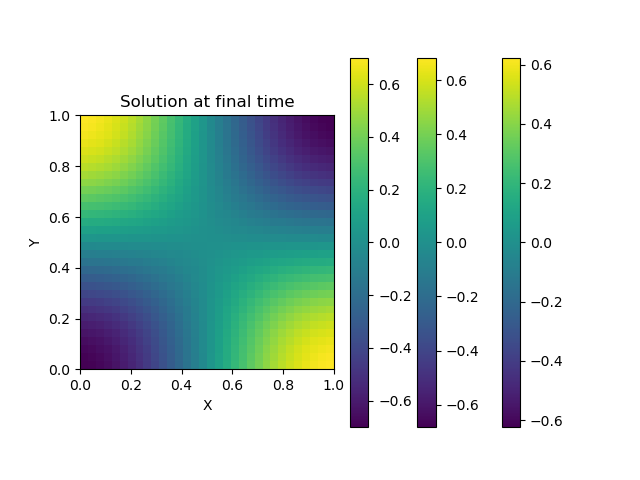
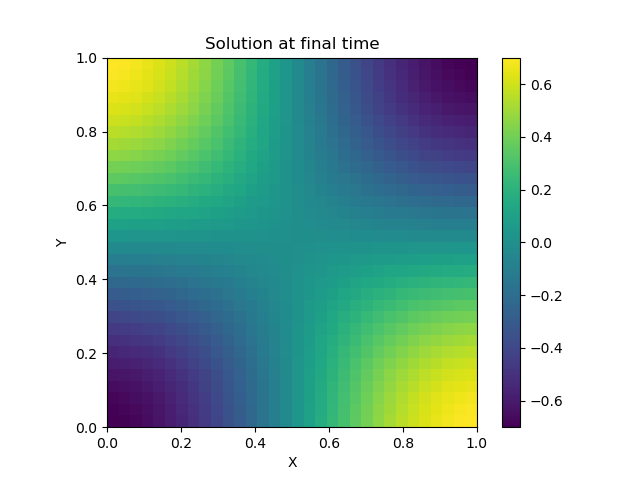
pushed the results from Wheeler without the extra colorbars

diff --git a/homeworks/hw6/parallel_error/hw6_parallel_error.py b/homeworks/hw6/parallel_error/hw6_parallel_error.py
@@ -454,14 +454,14 @@ def matvec_check(A, X, Y, N, comm, h):
 
 
 ###########
-# This code block chooses the final time and problem sizes (nt, n) to loop over.  
+# This code block chooses the final time and problem sizes (nt, n) to loop over.
 # - You can automate the selection of problem sizes using if/else statements or
 #   command line parameters.  Or, you can simply comment in (and comment out)
-#   lines of code to select your problem sizes. 
+#   lines of code to select your problem sizes.
 #
 # - Note that N_values corresponds to the number of _interior_ (non-boundary) grid
-#   points in one coordinate direction.  Your total number of grid points in one 
-#   coordinate direction would be (N_values[k] + 2). 
+#   points in one coordinate direction.  Your total number of grid points in one
+#   coordinate direction would be (N_values[k] + 2).
 #
 # - The total number of spatial points is (N_values[k] + 2)^2
 
@@ -472,8 +472,8 @@ if __name__ == "__main__":
     # T = 0.5
 
     # Changed for our special case (second function above)
-    Nt_values = array([12 * (4 ** i) for i in range(4)])  # 8*4 -> 100
-    N_values = array([8 * (2 ** i) for i in range(4)])  # 16
+    Nt_values = array([12 * (4 ** i) for i in range(4)])  # 4
+    N_values = array([8 * (2 ** i) for i in range(4)])  # 4
     #
     # print(f"N time values: {Nt_values}")
     # print(f"N values: {N_values}")
@@ -955,6 +955,7 @@ if __name__ == "__main__":
                 pyplot.ylabel('Y')
                 pyplot.title("Initial Condition")
                 pyplot.savefig(f"{parallel_root_current}solution_initial.png")
+                pyplot.close(pyplot.figure(-1))
 
                 # pyplot.figure(10)
                 # pyplot.imshow(u[5,:].reshape(n,n))
@@ -977,6 +978,7 @@ if __name__ == "__main__":
                 pyplot.ylabel('Y')
                 pyplot.title("Solution at mid time")
                 pyplot.savefig(f"{parallel_root_current}solution_mid.png")
+                pyplot.close(pyplot.figure(-12))
 
                 pyplot.figure(-99)
                 if ORIGINAL:
@@ -993,6 +995,7 @@ if __name__ == "__main__":
                 pyplot.ylabel('Y')
                 pyplot.title("Exact Solution at mid time")
                 pyplot.savefig(f"{parallel_root_current}exact_mid.png")
+                pyplot.close(pyplot.figure(-99))
 
                 # import pdb; pdb.set_trace()
 
@@ -1014,6 +1017,7 @@ if __name__ == "__main__":
                 pyplot.ylabel('Y')
                 pyplot.title("Solution at final time")
                 pyplot.savefig(f"{parallel_root_current}solution_final.png")
+                pyplot.close(pyplot.figure(-3))
 
                 pyplot.figure(-4)
                 if ORIGINAL:
@@ -1028,6 +1032,7 @@ if __name__ == "__main__":
                 pyplot.ylabel('Y')
                 pyplot.title("Exact Solution at final time")
                 pyplot.savefig(f"{parallel_root_current}exact_final.png")
+                pyplot.close(pyplot.figure(-4))
 
                 # pyplot.show()
 
@@ -1053,6 +1058,8 @@ if __name__ == "__main__":
 
             # TODO: comment out the show plots for final...
             # pyplot.show()
+
+            pyplot.close(pyplot.figure(-999))
 
 # TODO: 1 process, no communication...
 # TODO: another directory for plots (separate serial and parallel...)
